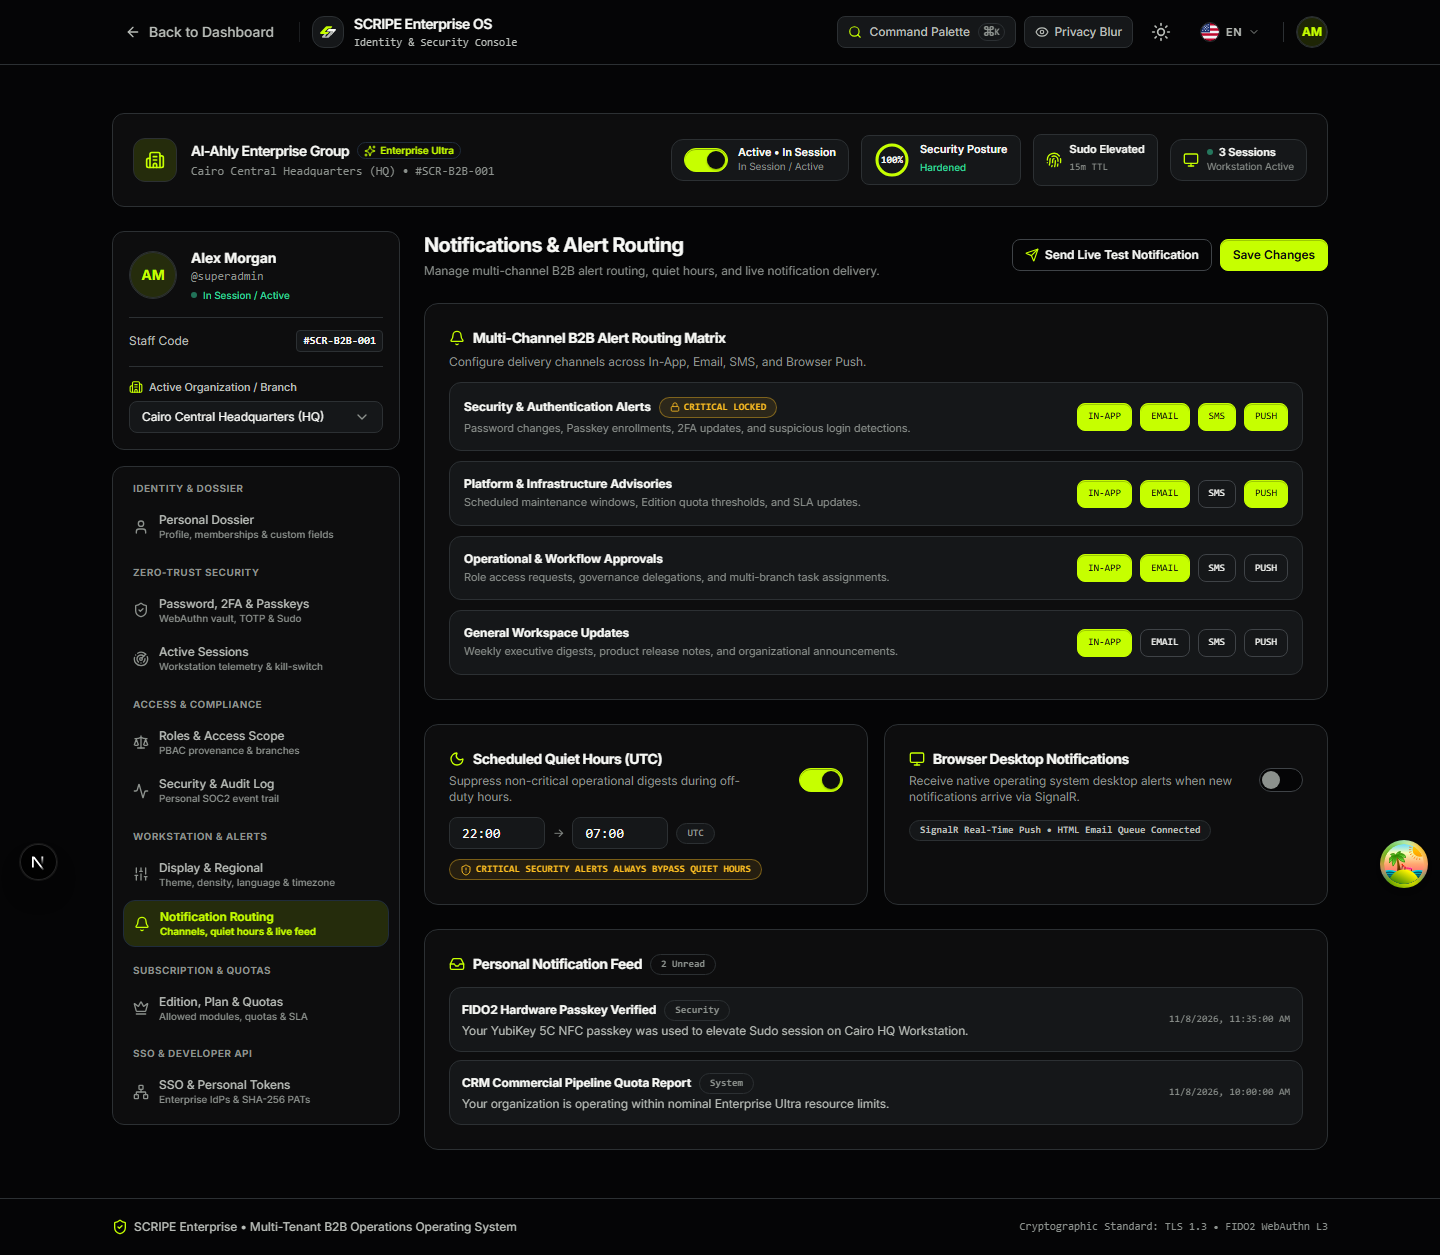
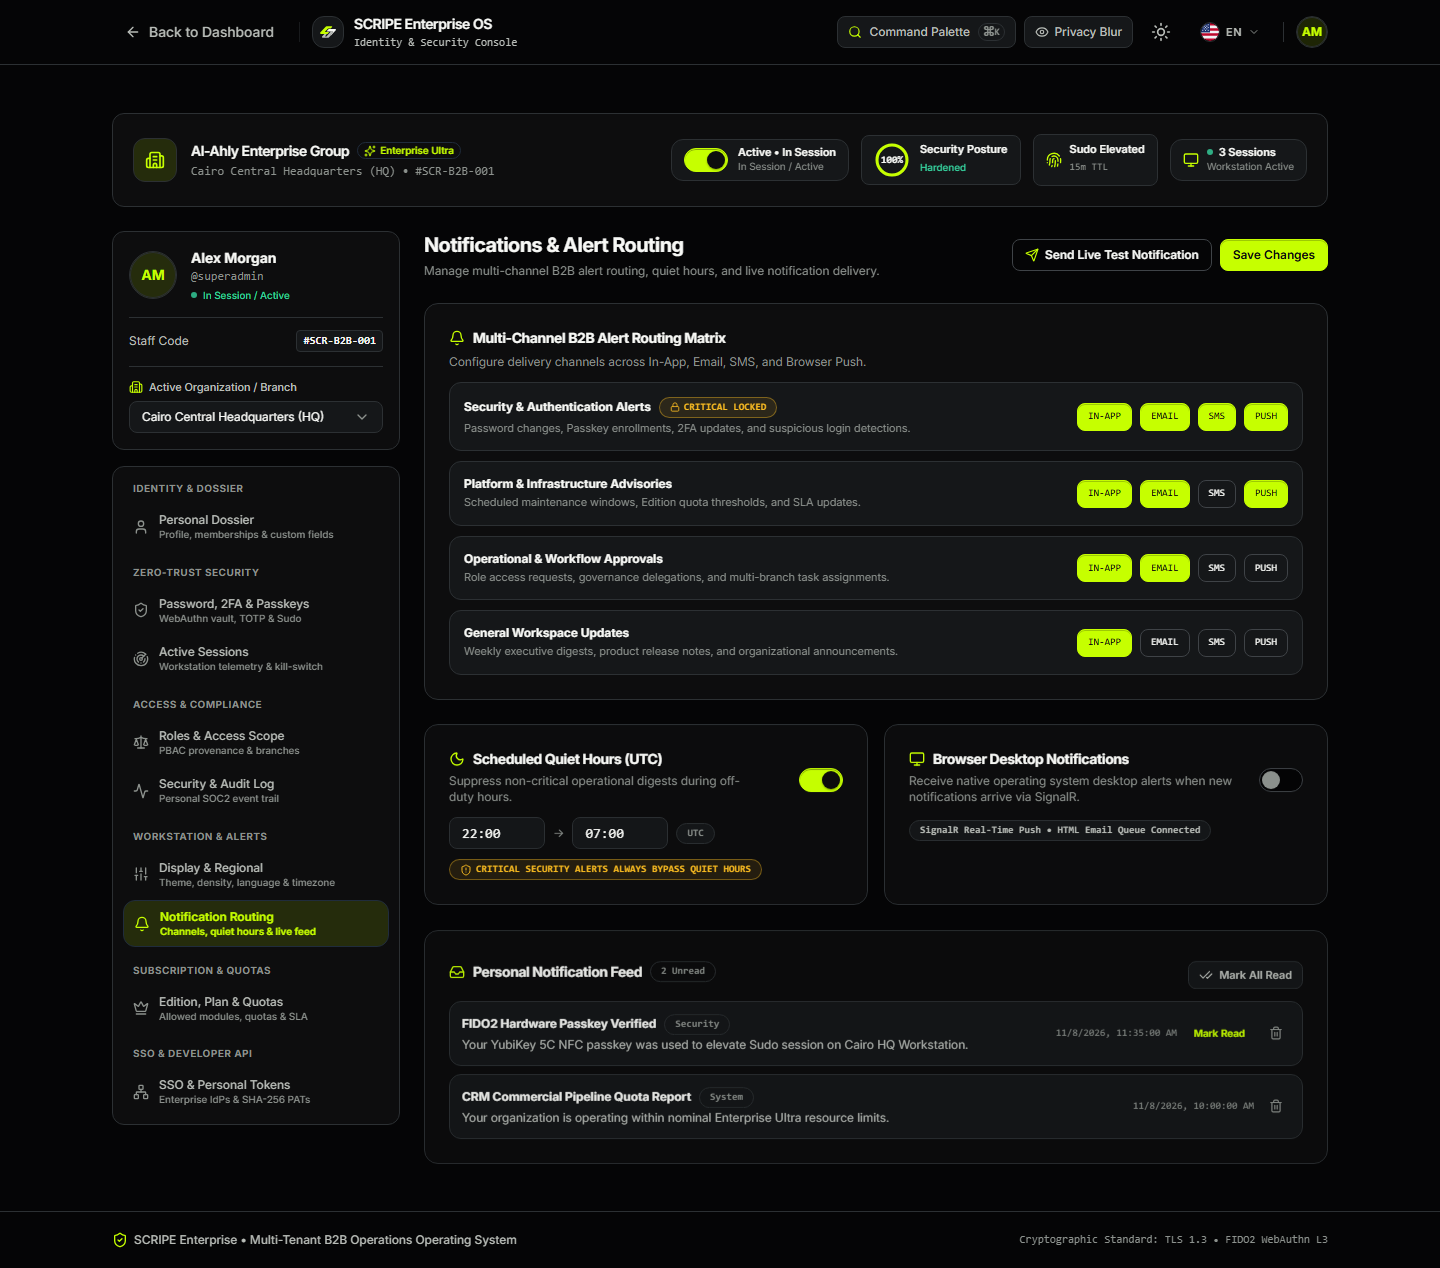
test(e2e): serve pre-built bundle in playwright config and verify notification feed actions

diff --git a/tests/e2e/account/sovereign-account-world.spec.ts b/tests/e2e/account/sovereign-account-world.spec.ts
@@ -128,13 +128,16 @@ test.describe("SCRIPE Clean 9-Page B2B Enterprise Account Console (v4.0) — Dar
     await expect(page.locator("h1").first()).toBeVisible({ timeout: 20_000 });
     await expect(page.getByText(/VP of Enterprise Operations/i).first()).toBeVisible();
 
-    // 4. Notifications: Verify Live Notification Matrix, Security Bypass Law & 1-Click Live Test Notification
+    // 4. Notifications: Verify Live Notification Matrix, Security Bypass Law, 1-Click Live Test Notification & Feed Actions
     await page.goto("/account/notifications", { waitUntil: "domcontentloaded" });
     await expect(page.locator("h1").first()).toBeVisible({ timeout: 20_000 });
     const sendTestBtn = page.getByTestId("send-test-notification-btn");
     await expect(sendTestBtn).toBeVisible();
     await sendTestBtn.click();
     await expect(page.getByText(/Live B2B Test Notification/i).first()).toBeVisible();
+    const markAllReadBtn = page.getByTestId("mark-all-notifications-read-btn");
+    await expect(markAllReadBtn).toBeVisible();
+    await markAllReadBtn.click();
 
     // 5. Plan: Verify Edition, Support PIN & 3-State Features Matrix
     await page.goto("/account/plan", { waitUntil: "domcontentloaded" });

diff --git a/tests/e2e/account/playwright.config.ts b/tests/e2e/account/playwright.config.ts
@@ -31,7 +31,7 @@ export default defineConfig({
   ],
 
   webServer: {
-    command: "pnpm dev -p 3000",
+    command: "pnpm start -p 3000",
     port: 3000,
     reuseExistingServer: true,
     timeout: 90_000,
